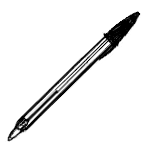
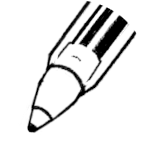
Add CriarNota button title and adjust image dimensions

Changed region(s): [[0.0267, 0.0, 0.9333, 0.96]]

diff --git a/src/components/Notebook/LeftPanel/CriarNota/CriarNota.module.css b/src/components/Notebook/LeftPanel/CriarNota/CriarNota.module.css
@@ -1,6 +1,6 @@
 .canetaButton img {
-    width: 80px;
-    height: 80px;
+    width: 100px;
+    height: 100px;
 }
 
 .canetaButton {
@@ -14,8 +14,6 @@
     margin: 0;
     cursor: pointer;
     border: none;
-
-    overflow: hidden;
 
     box-shadow: 0 0 0 rgba(0, 0, 0, 0);
 

diff --git a/src/components/Notebook/LeftPanel/CriarNota/CriarNota.jsx b/src/components/Notebook/LeftPanel/CriarNota/CriarNota.jsx
@@ -4,6 +4,7 @@ function CriarNota() {
     return (
         <button
             className={styles.canetaButton}
+            title="Criar nota"
         >
             <img src="/caneta-bic.png" alt="caneta" />
         </button>
